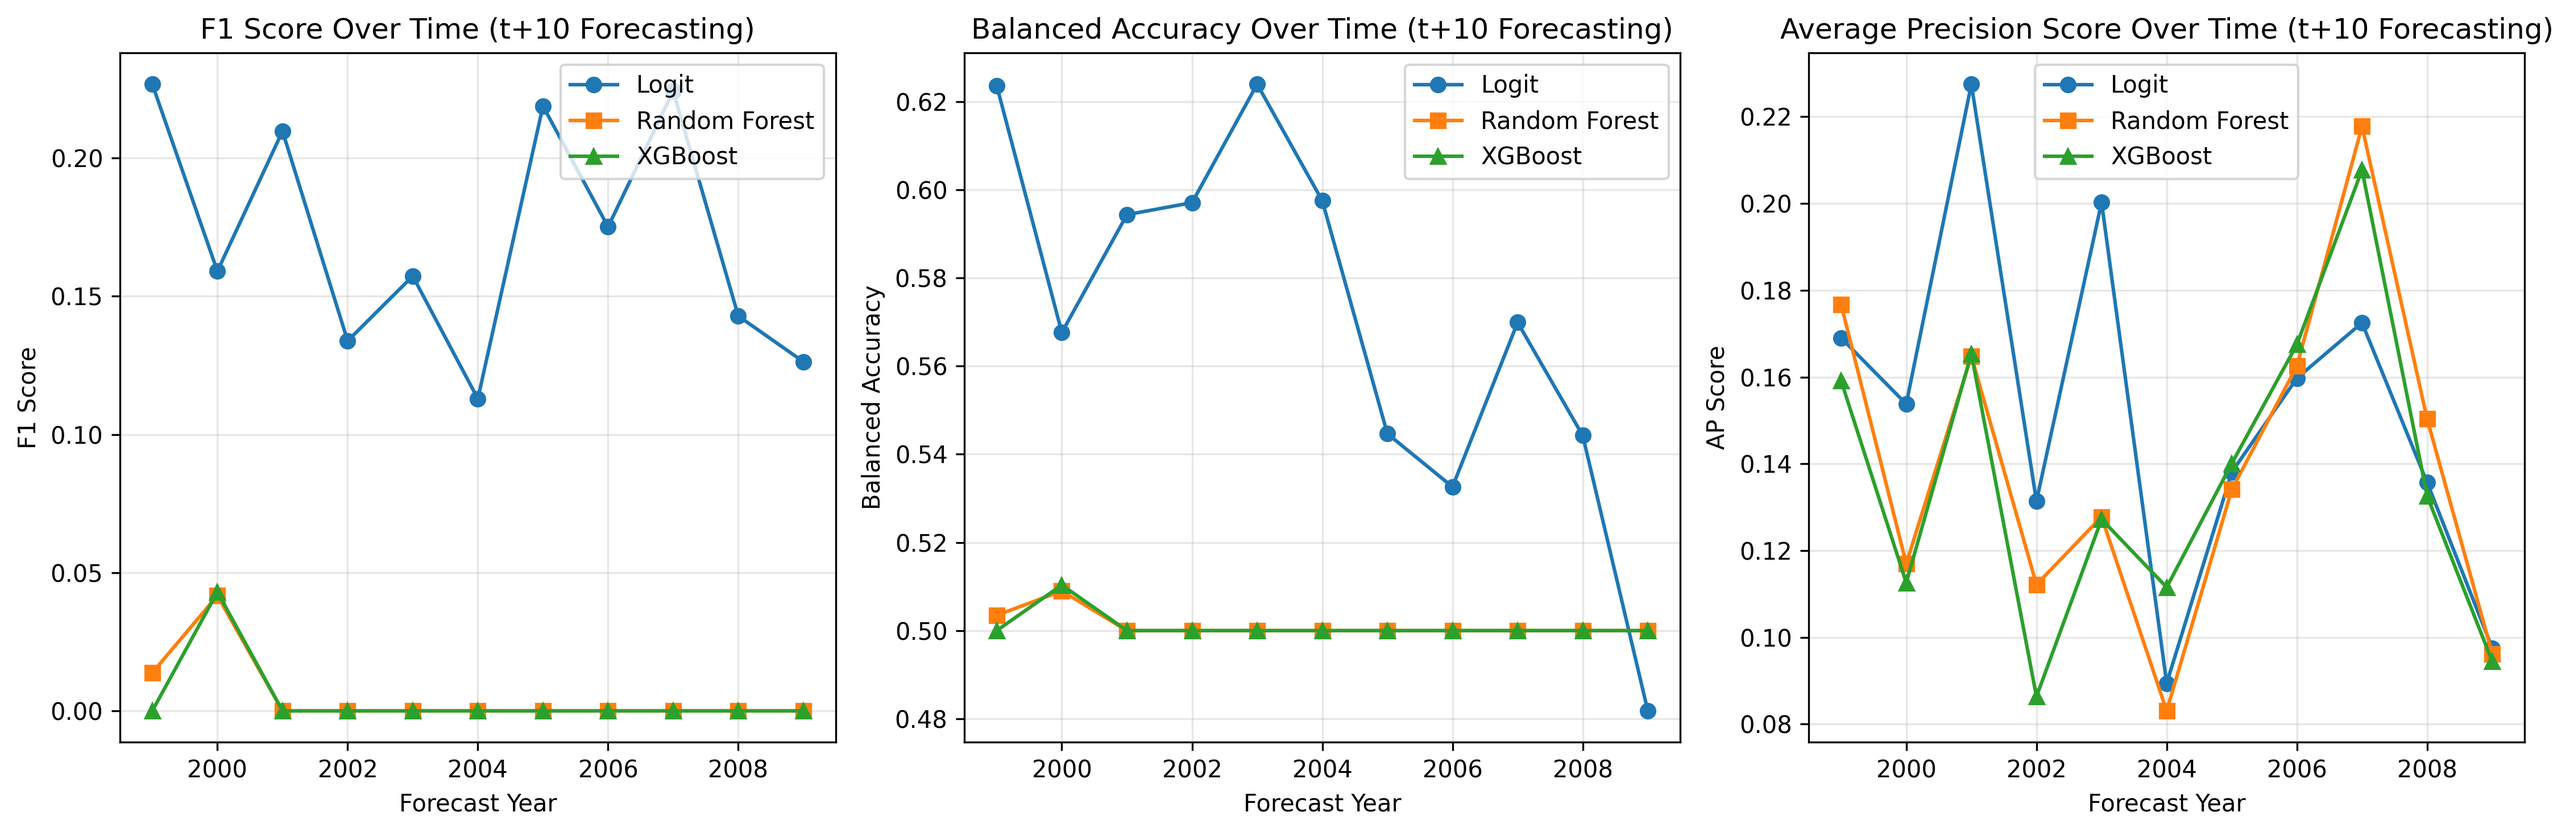
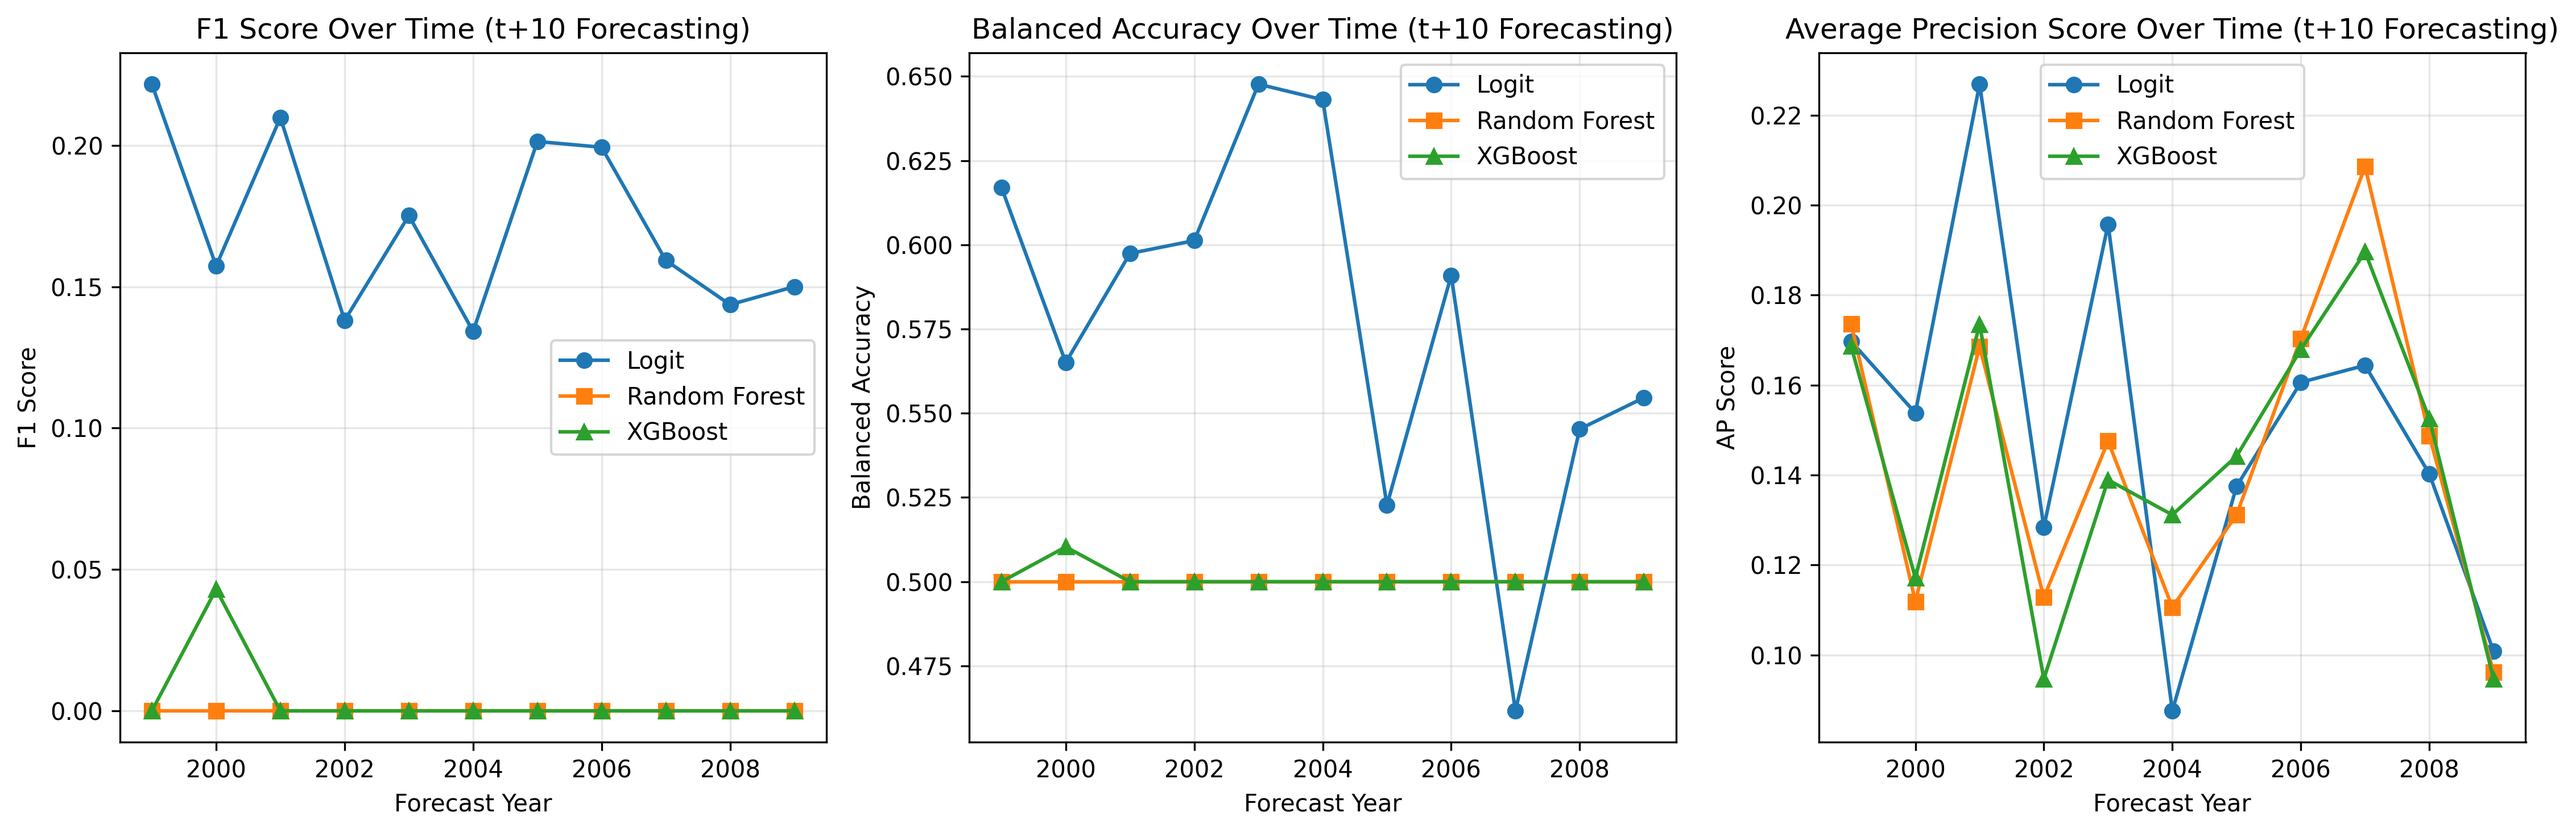
Updated outputs.

diff --git a/ml_forecast/boehmke_forecast.py b/ml_forecast/boehmke_forecast.py
@@ -51,13 +51,28 @@ for train_end_year in range(mid_year, max_year):
     
     if len(test_data) == 0:
         continue
-    
+
     # Prepare features
-    X_train = train_data.drop(columns = ['adopt', 'year', 'state'])
-    y_train = train_data['adopt']
-    X_test = test_data.drop(columns = ['adopt', 'year', 'state'])
-    y_test = test_data['adopt']
+    X_train = train_data.drop(columns = ['adopt', 'state'])
+    X_test = test_data.drop(columns = ['adopt', 'state'])
     
+    # Create dummy variables for ALL possible years in the dataset
+    all_years = sorted(boehmke_2017['year'].unique())
+    
+    # Create dummies for train set
+    X_train = pd.get_dummies(X_train, columns = ['year'], drop_first = True)
+    
+    # Create dummies for test set
+    X_test = pd.get_dummies(X_test, columns = ['year'], drop_first = True)
+    
+    # Ensure both have the same columns by reindexing
+    all_columns = X_train.columns.union(X_test.columns)
+    X_train = X_train.reindex(columns = all_columns, fill_value = 0)
+    X_test = X_test.reindex(columns = all_columns, fill_value = 0)
+    
+    y_train = train_data['adopt']
+    y_test = test_data['adopt']
+
     # Scale features
     scaler = StandardScaler()
     X_train_scaled = scaler.fit_transform(X_train)
@@ -227,9 +242,24 @@ for train_end_year in range(mid_year, max_year - 4):
         continue
     
     # Prepare features
-    X_train = train_data.drop(columns = ['adopt', 'year', 'state'])
+    X_train = train_data.drop(columns = ['adopt', 'state'])
+    X_test = test_data.drop(columns = ['adopt', 'state'])
+    
+    # Create dummy variables for ALL possible years in the dataset
+    all_years = sorted(boehmke_2017['year'].unique())
+    
+    # Create dummies for train set
+    X_train = pd.get_dummies(X_train, columns = ['year'], drop_first = True)
+    
+    # Create dummies for test set
+    X_test = pd.get_dummies(X_test, columns = ['year'], drop_first = True)
+    
+    # Ensure both have the same columns by reindexing
+    all_columns = X_train.columns.union(X_test.columns)
+    X_train = X_train.reindex(columns = all_columns, fill_value = 0)
+    X_test = X_test.reindex(columns = all_columns, fill_value = 0)
+    
     y_train = train_data['adopt']
-    X_test = test_data.drop(columns = ['adopt', 'year', 'state'])
     y_test = test_data['adopt']
     
     # Scale features
@@ -401,9 +431,24 @@ for train_end_year in range(mid_year, max_year - 9):
         continue
     
     # Prepare features
-    X_train = train_data.drop(columns = ['adopt', 'year', 'state'])
+    X_train = train_data.drop(columns = ['adopt', 'state'])
+    X_test = test_data.drop(columns = ['adopt', 'state'])
+    
+    # Create dummy variables for ALL possible years in the dataset
+    all_years = sorted(boehmke_2017['year'].unique())
+    
+    # Create dummies for train set
+    X_train = pd.get_dummies(X_train, columns = ['year'], drop_first = True)
+    
+    # Create dummies for test set
+    X_test = pd.get_dummies(X_test, columns = ['year'], drop_first = True)
+    
+    # Ensure both have the same columns by reindexing
+    all_columns = X_train.columns.union(X_test.columns)
+    X_train = X_train.reindex(columns = all_columns, fill_value = 0)
+    X_test = X_test.reindex(columns = all_columns, fill_value = 0)
+    
     y_train = train_data['adopt']
-    X_test = test_data.drop(columns = ['adopt', 'year', 'state'])
     y_test = test_data['adopt']
     
     # Scale features

diff --git a/ml_forecast/bricker_lacombe_forecast.py b/ml_forecast/bricker_lacombe_forecast.py
@@ -53,12 +53,6 @@ for train_end_year in range(mid_year, max_year):
     
     if len(test_data) == 0:
         continue
-    
-    # Prepare features
-    X_train = train_data.drop(columns = ['adoption', 'state', 'year', 'policy'])
-    y_train = train_data['adoption']
-    X_test = test_data.drop(columns = ['adoption', 'state', 'year', 'policy'])
-    y_test = test_data['adoption']
 
     # Prepare features
     X_train = train_data.drop(columns = ['adoption', 'state', 'policy'])
@@ -251,10 +245,25 @@ for train_end_year in range(mid_year, max_year - 4):
         continue
     
     # Prepare features
-    X_train = train_data.drop(columns = ['dvadopt', 'state', 'year'])
-    y_train = train_data['dvadopt']
-    X_test = test_data.drop(columns = ['dvadopt', 'state', 'year'])
-    y_test = test_data['dvadopt']
+    X_train = train_data.drop(columns = ['adoption', 'state', 'policy'])
+    X_test = test_data.drop(columns = ['adoption', 'state', 'policy'])
+    
+    # Create dummy variables for ALL possible years in the dataset
+    all_years = sorted(bricker_lacombe_2021['year'].unique())
+    
+    # Create dummies for train set
+    X_train = pd.get_dummies(X_train, columns = ['year'], drop_first = True)
+    
+    # Create dummies for test set
+    X_test = pd.get_dummies(X_test, columns = ['year'], drop_first = True)
+    
+    # Ensure both have the same columns by reindexing
+    all_columns = X_train.columns.union(X_test.columns)
+    X_train = X_train.reindex(columns = all_columns, fill_value = 0)
+    X_test = X_test.reindex(columns = all_columns, fill_value = 0)
+    
+    y_train = train_data['adoption']
+    y_test = test_data['adoption']
     
     # Scale features
     scaler = StandardScaler()
@@ -426,10 +435,25 @@ for train_end_year in range(mid_year, max_year - 9):
         continue
     
     # Prepare features
-    X_train = train_data.drop(columns = ['dvadopt', 'state', 'year'])
-    y_train = train_data['dvadopt']
-    X_test = test_data.drop(columns = ['dvadopt', 'state', 'year'])
-    y_test = test_data['dvadopt']
+    X_train = train_data.drop(columns = ['adoption', 'state', 'policy'])
+    X_test = test_data.drop(columns = ['adoption', 'state', 'policy'])
+    
+    # Create dummy variables for ALL possible years in the dataset
+    all_years = sorted(bricker_lacombe_2021['year'].unique())
+    
+    # Create dummies for train set
+    X_train = pd.get_dummies(X_train, columns = ['year'], drop_first = True)
+    
+    # Create dummies for test set
+    X_test = pd.get_dummies(X_test, columns = ['year'], drop_first = True)
+    
+    # Ensure both have the same columns by reindexing
+    all_columns = X_train.columns.union(X_test.columns)
+    X_train = X_train.reindex(columns = all_columns, fill_value = 0)
+    X_test = X_test.reindex(columns = all_columns, fill_value = 0)
+    
+    y_train = train_data['adoption']
+    y_test = test_data['adoption']
     
     # Scale features
     scaler = StandardScaler()
